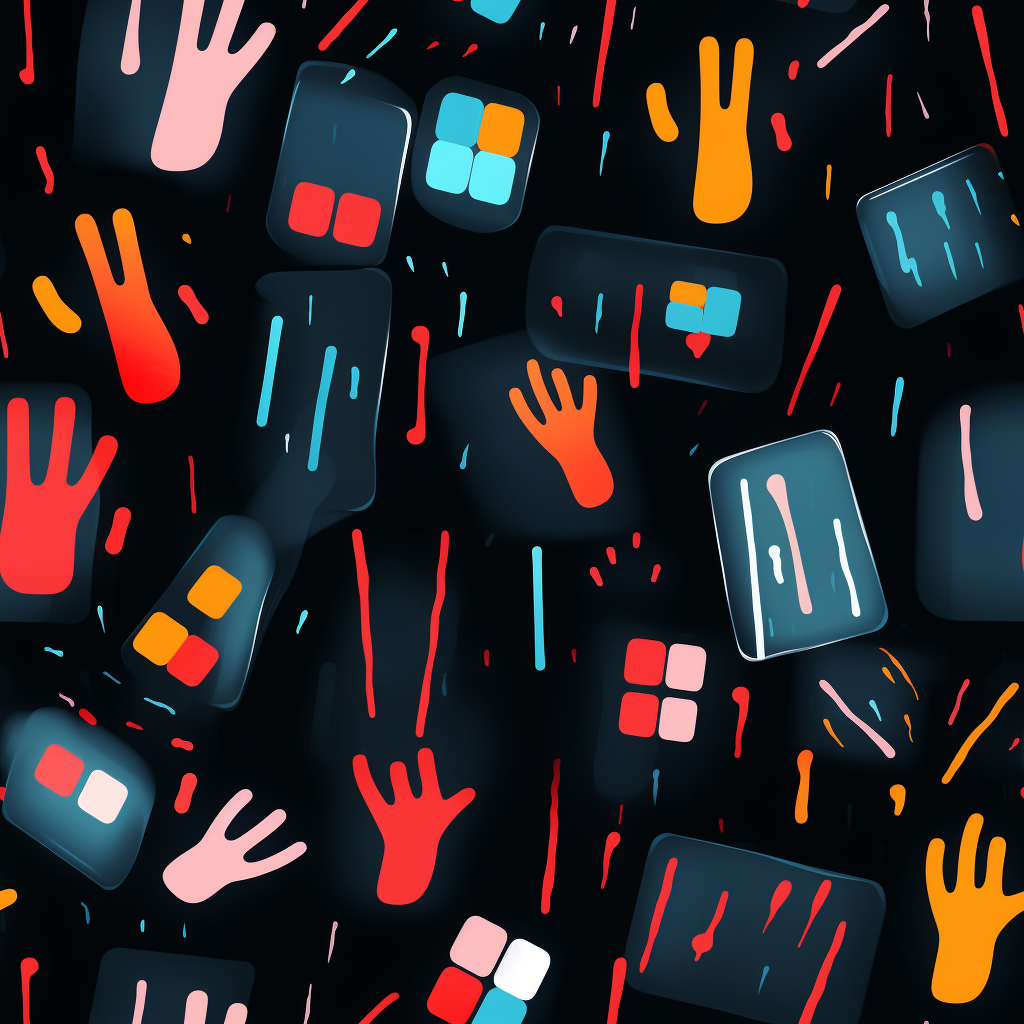
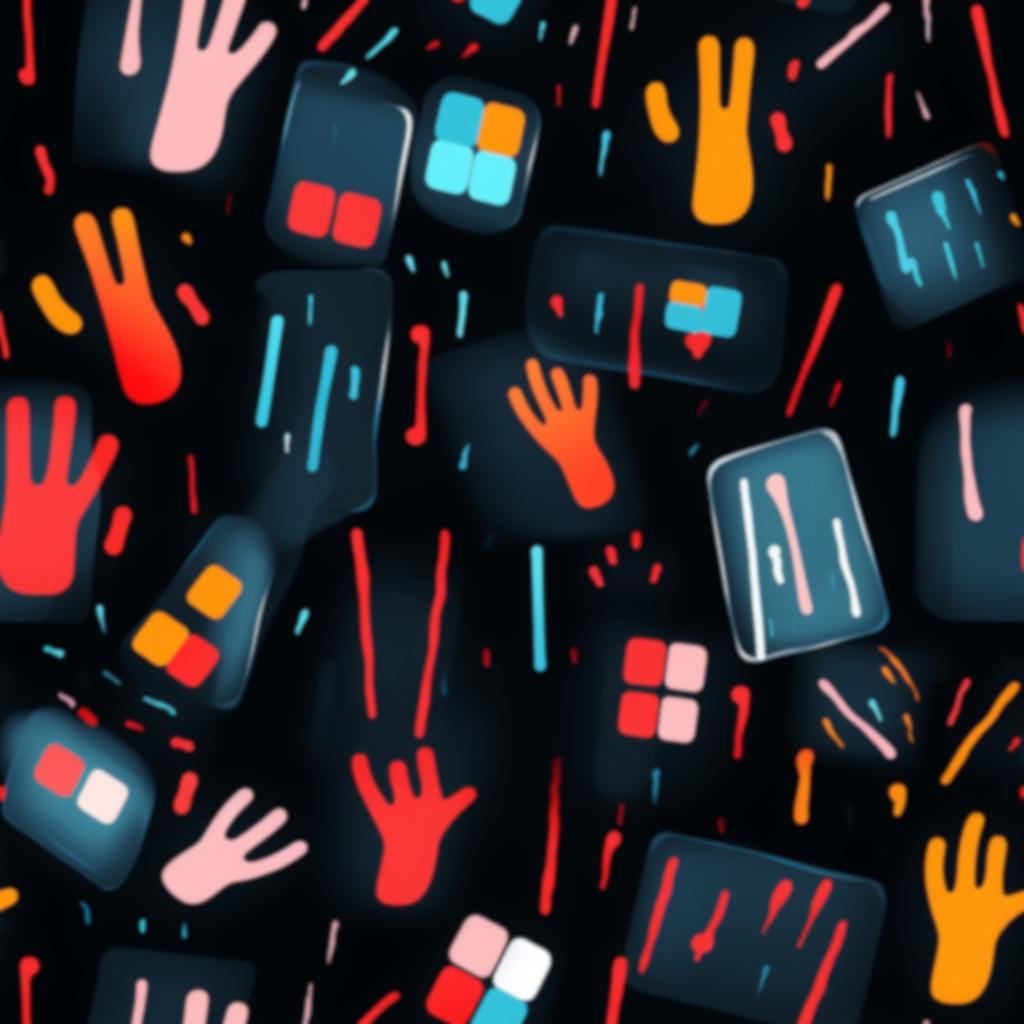
x

diff --git a/themes/avicenna/static/css/style.css b/themes/avicenna/static/css/style.css
@@ -2,8 +2,9 @@
 body {
     font-family: 'Inter', sans-serif;
     color: #071013;
-    background-image: url("test1.png");
+    background-image: url("test3.png");
     background-repeat: repeat;
+    opacity: 0.3;
 }
 
 a {
